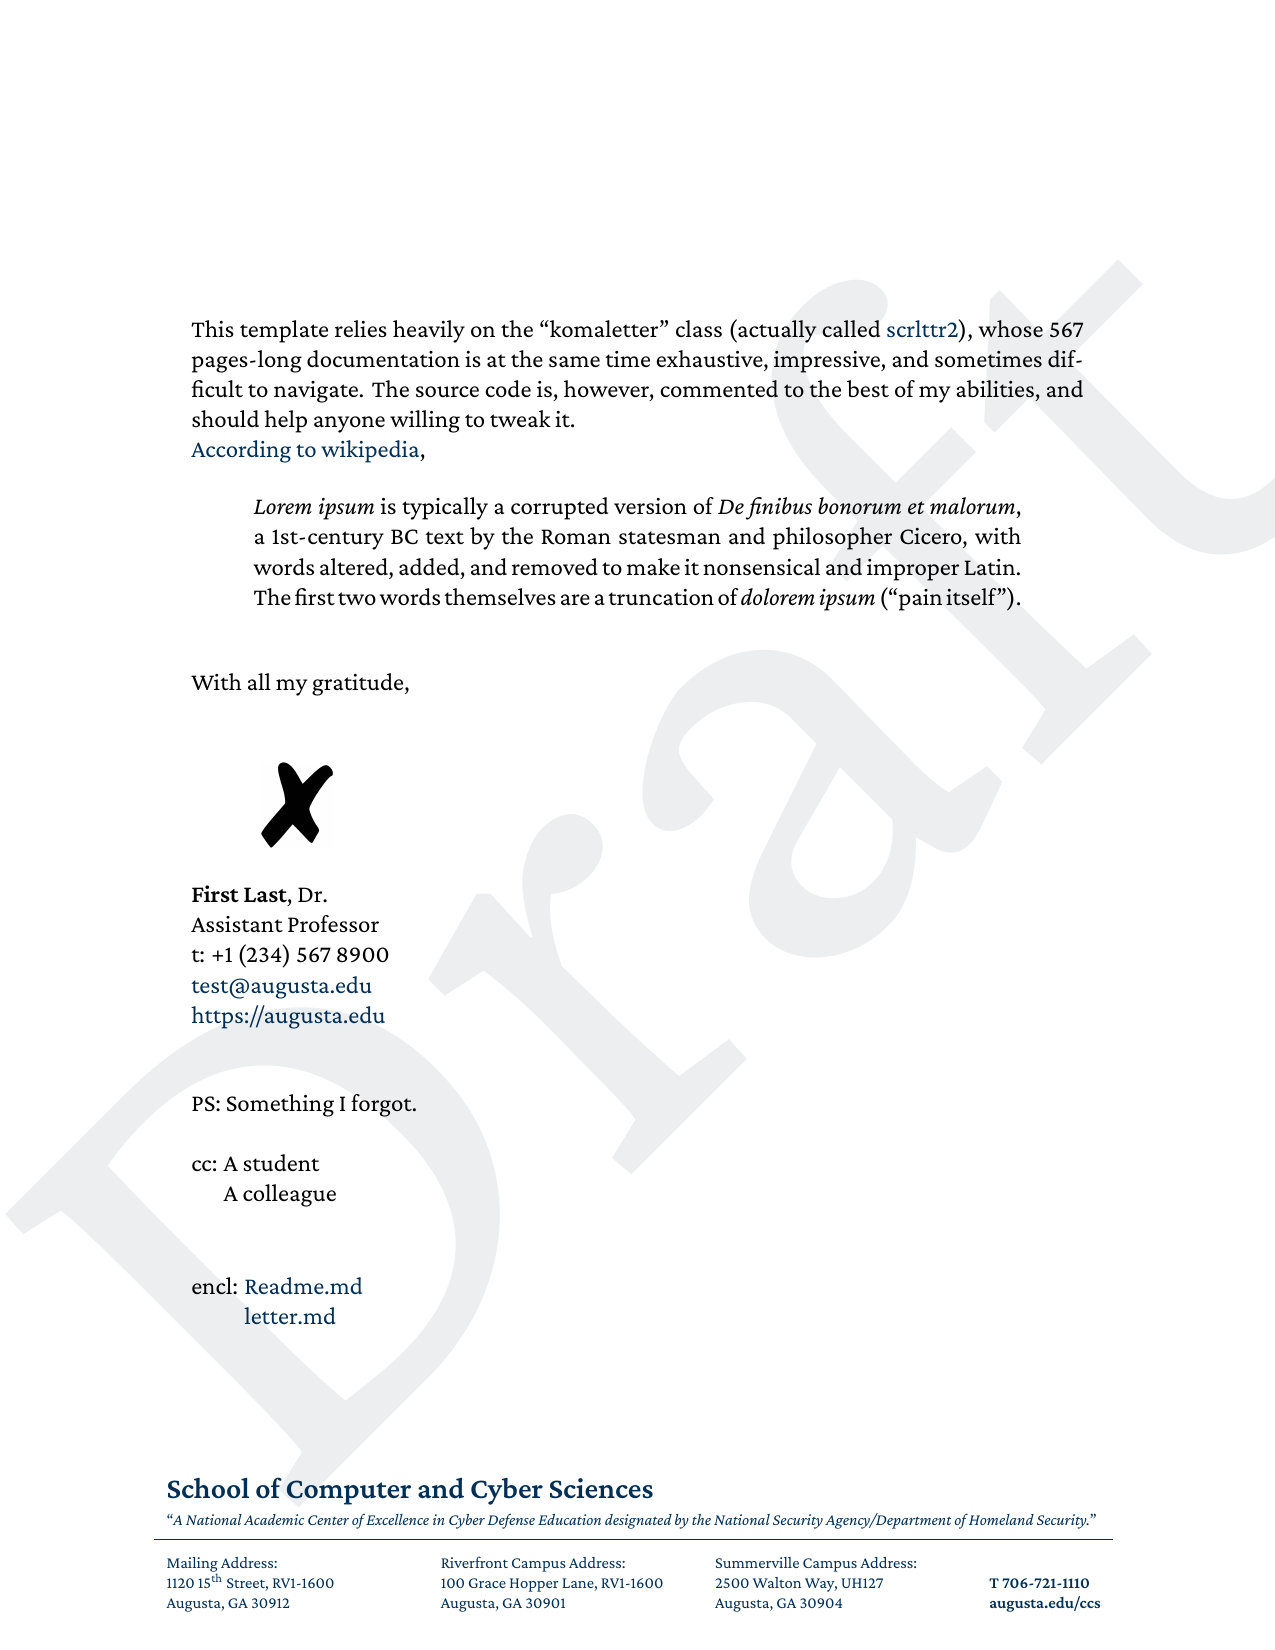
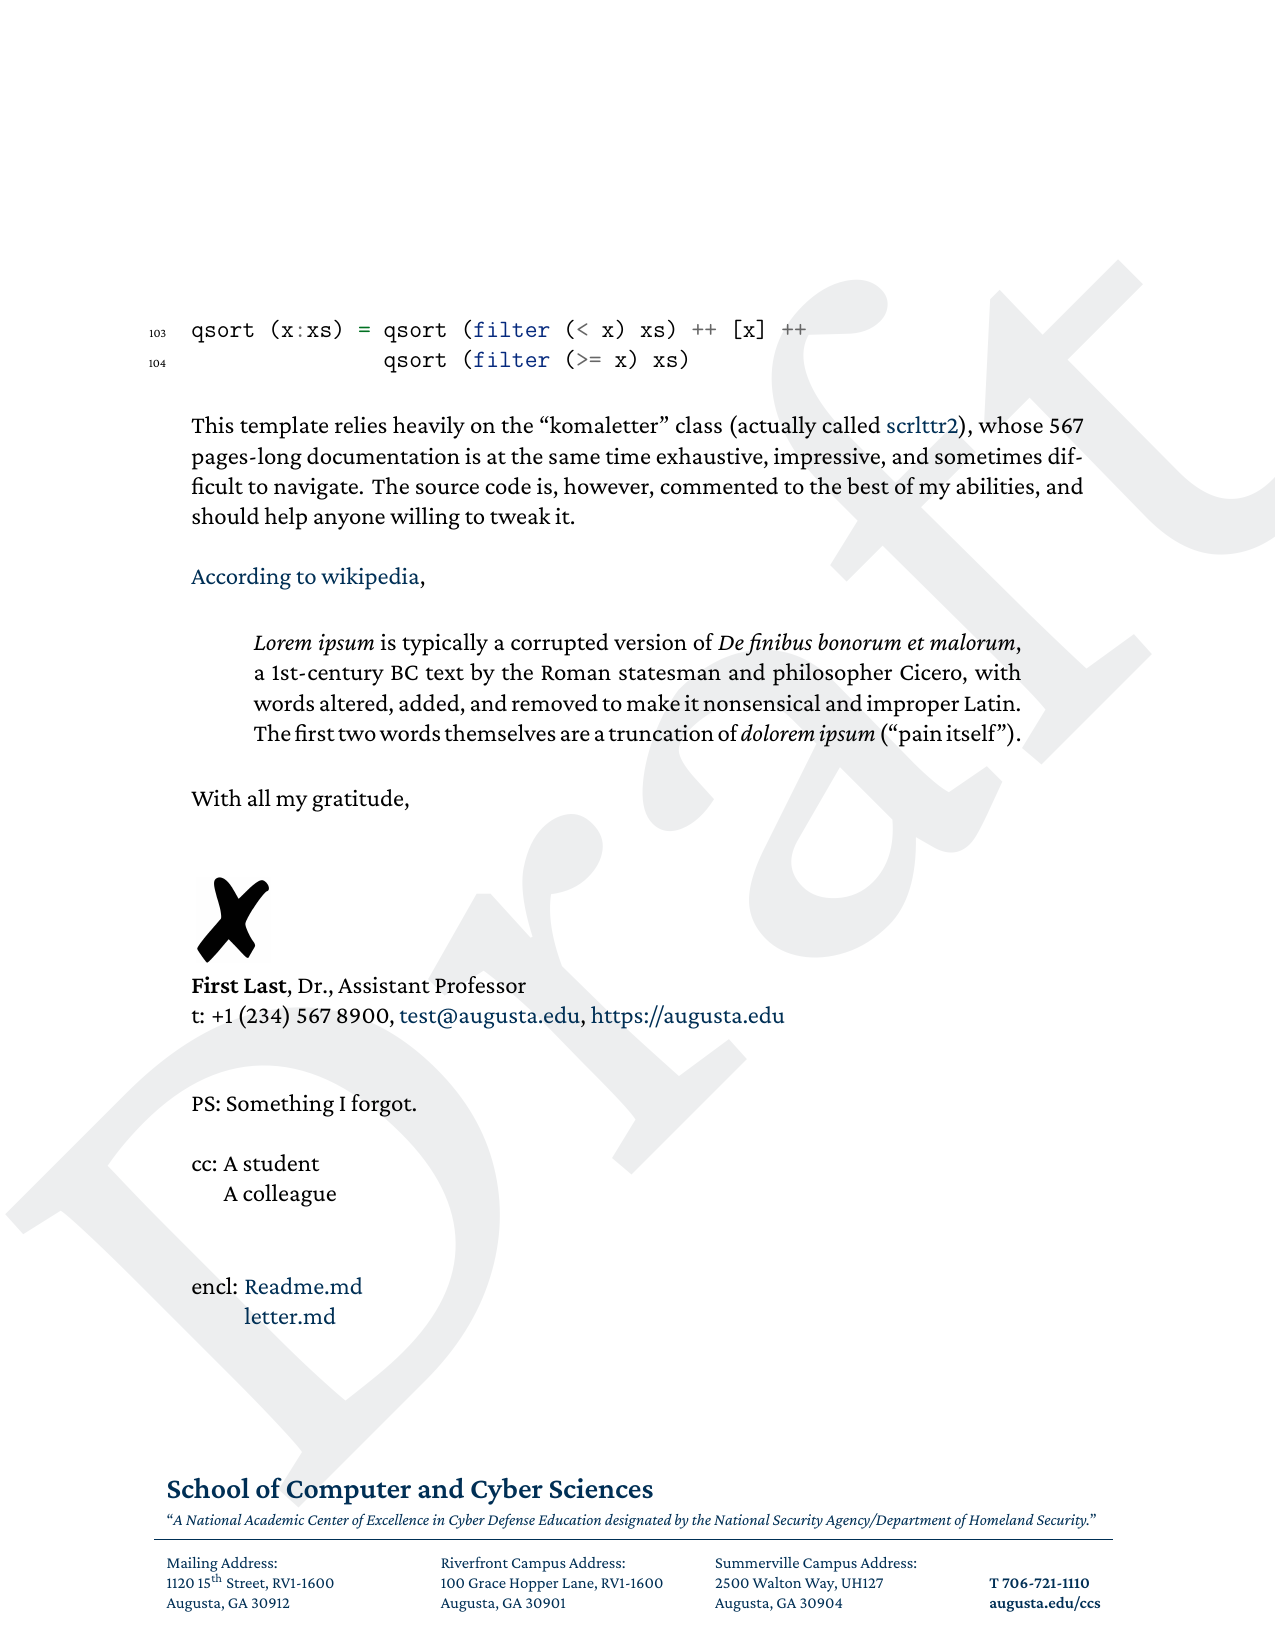
Introduced compact mode.

diff --git a/template.tex b/template.tex
@@ -210,19 +210,11 @@ $endif$
     $if(signature)$
         \hbox{\includegraphics[width=3em]{$signature$}}\\
     $endif$
-    \textbf{\usekomavar{fromname}}$if(title)$, $title$$endif$\\
-    $if(position)$
-		$position$\\
-	$endif$
-    $if(phone)$
-        t: $phone$\\
-    $endif$
-    $if(email)$
-        \href{mailto:$email$}{$email$}\\
-    $endif$
-    $if(website)$
-        \href{$website$}{$website$}
-    $endif$
+    \textbf{\usekomavar{fromname}}$if(title)$, $title$$endif$$if(compact)$, $else$\\$endif$
+    $if(position)$$position$$endif$\\
+    $if(phone)$t: $phone$$if(compact)$, $else$\\$endif$$endif$
+    $if(email)$\href{mailto:$email$}{$email$}$if(compact)$, $else$\\$endif$$endif$
+    $if(website)$\href{$website$}{$website$}$endif$
 }
 
 \begin{document}

diff --git a/Readme.md b/Readme.md
@@ -47,6 +47,7 @@ Variable | Meaning | Default Value | Note
 `signature` | The path to a pdf file containing your signature | None | I recommend simply replacing the "signature/sign.pdf" file.
 `cc` | A list of persons in copy of your letter | None | 
 `attachment` | A list of files to include in the pdf | None | See below 
+`compact` | Enter a value (any value) to adopt a more compact signature | Not activated | This impacts only the signature.
 
 WARNING, attachments are quite experimental, as they embed the documents in the pdf itself.
 The [attachfile2](https://www.ctan.org/pkg/attachfile2) package beyond this feature is not maintained, as far as I know, in part because embedding documents in pdf is under-specified.
@@ -56,6 +57,7 @@ In the file `template.tex`, change the content of the "firstfoot" koma variable 
 
 ## Changelog
 
+- 2023/10/13: Introduced a "compact" mode for the signature, and fixed a couple of bugs.
 - 2023/10/12: Cleaned some files, clarified the license and the documentation.
 - 2023/10/11: Switched to `scrlttr2`. This is a major release and breaks retro-compatibility to some extend.
 - 2023/09/14: Adopted the improved CrimsonPro font.

diff --git a/letter.md b/letter.md
@@ -1,27 +1,28 @@
 ---
 author: "First Last"
+title: "Dr."
+position: "Assistant Professor"
 email: "test@augusta.edu"
 website: "https://augusta.edu"
 phone: "+1 (234) 567 8900"
-subject: "My very nice letter"
-opening: "Dear members of the committee,"
-closing: "With all my gratitude,"
-ps: "Something I forgot."
-position: "Assistant Professor"
-title: "Dr."
+signature: "signature/sign.pdf"
 recipient: | 
   | To Whom It May Concern,
   | XYZ University,
   | 123 Invented St.
   | City, St, 830291
+subject: "My very nice letter"
+opening: "Dear members of the committee,"
+closing: "With all my gratitude,"
+ps: "Something I forgot."
 mention: "Draft" 
-signature: "signature/sign.pdf"
 cc: 
     - A student
     - A colleague
 attachment:
     - Readme.md
     - letter.md
+compact: true
 ---
 
 I am using the _Crimson Text_ font, _in italic_, **in bold**, **_in bold and italics_**.
